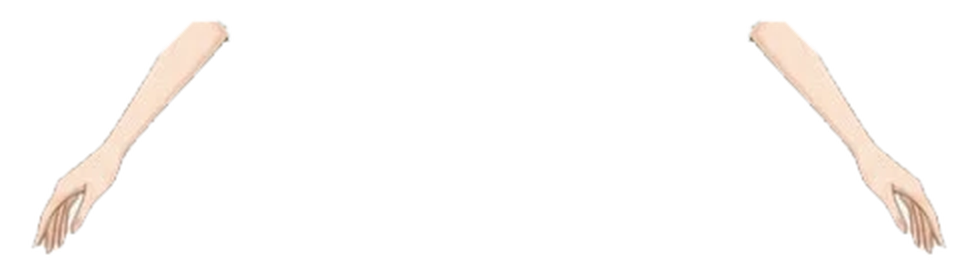
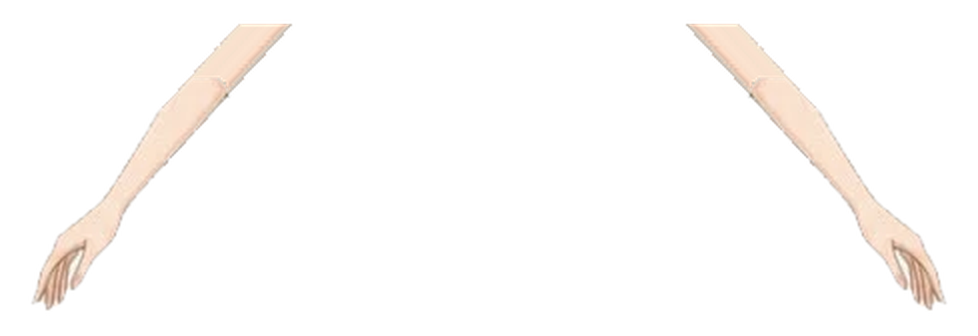
Fix forearm joins at the sleeves and align the waist with the skirt
- Extend the painted forearms up their own axis so they tuck under the
  sleeve hem instead of ending in a cut edge below it
- Keep painted arm fragments out of the dupatta and hanging-rod cut-outs
  (they showed as a streak and stray fingertips over the right arm)
- Raise the lehenga waistband to where the painting has it, widen it to
  the painted width, and refit the flare just below it
- Slim the midriff so the body tucks inside the waistband instead of
  showing past it

Claude-Session: https://claude.ai/code/session_01TYPUusnuhtBJ7Z9aDFcSGW

Changed region(s): [[0.7055, 0.0571, 0.9816, 0.9143], [0.0307, 0.0571, 0.3067, 0.9143]]

diff --git a/src/data/geometry.ts b/src/data/geometry.ts
@@ -445,24 +445,24 @@ export const SLV: Record<string, { L: number; w: [number, number, number] } | nu
 };
 
 export const BOT: Record<string, { profile: [number, number][]; scallop?: boolean }> = {
-  pleated: { profile: [[0, 39.6], [0.028, 40.1], [0.04, 48.6], [0.083, 58.6], [0.126, 68.6], [0.211, 85.6], [0.298, 104.6], [0.385, 120.6], [0.47, 138.6], [0.557, 156.6], [0.642, 173.6], [0.729, 190.6], [0.816, 208.6], [0.885, 221.6]] },
-  aline: { profile: [[0, 39.6], [0.028, 40.1], [0.12, 78], [0.24, 98], [0.5, 138], [0.75, 172], [1, 204]] },
-  circular: { profile: [[0, 39.6], [0.028, 40.1], [0.12, 84], [0.24, 114], [0.45, 162], [0.7, 202], [1, 230]] },
-  panelled: { profile: [[0, 39.6], [0.028, 40.1], [0.12, 80], [0.24, 102], [0.5, 146], [0.75, 186], [1, 216]], scallop: true },
-  flared: { profile: [[0, 39.6], [0.028, 40.1], [0.12, 78], [0.24, 96], [0.48, 126], [0.72, 176], [1, 222]] },
-  straight: { profile: [[0, 39.6], [0.028, 40.1], [0.12, 72], [0.24, 82], [0.45, 88], [0.75, 94], [1, 102]] },
-  tiered: { profile: [[0, 39.6], [0.028, 40.1], [0.12, 80], [0.24, 100], [0.33, 118], [0.35, 132], [0.66, 162], [0.68, 176], [1, 218]] },
-  mermaid: { profile: [[0, 39.6], [0.028, 40.1], [0.12, 74], [0.24, 82], [0.42, 82], [0.6, 80], [0.72, 88], [0.84, 146], [1, 210]] },
-  trouser: { profile: [[0, 39.6], [0.028, 40.1], [0.12, 72], [0.24, 80], [0.5, 78], [1, 74]] },
+  pleated: { profile: [[0, 40], [0.014, 40.6], [0.021, 41.5], [0.028, 43.2], [0.035, 45.8], [0.042, 49], [0.055, 52], [0.069, 54.6], [0.083, 58.1], [0.1, 62.4], [0.134, 70.3], [0.169, 77.3], [0.203, 84.2], [0.302, 104.6], [0.389, 120.6], [0.473, 138.6], [0.56, 156.6], [0.644, 173.6], [0.731, 190.6], [0.817, 208.6], [0.886, 221.6]] },
+  aline: { profile: [[0, 40], [0.028, 43.2], [0.12, 78], [0.24, 98], [0.5, 138], [0.75, 172], [1, 204]] },
+  circular: { profile: [[0, 40], [0.028, 43.2], [0.12, 84], [0.24, 114], [0.45, 162], [0.7, 202], [1, 230]] },
+  panelled: { profile: [[0, 40], [0.028, 43.2], [0.12, 80], [0.24, 102], [0.5, 146], [0.75, 186], [1, 216]], scallop: true },
+  flared: { profile: [[0, 40], [0.028, 43.2], [0.12, 78], [0.24, 96], [0.48, 126], [0.72, 176], [1, 222]] },
+  straight: { profile: [[0, 40], [0.028, 43.2], [0.12, 72], [0.24, 82], [0.45, 88], [0.75, 94], [1, 102]] },
+  tiered: { profile: [[0, 40], [0.028, 43.2], [0.12, 80], [0.24, 100], [0.33, 118], [0.35, 132], [0.66, 162], [0.68, 176], [1, 218]] },
+  mermaid: { profile: [[0, 40], [0.028, 43.2], [0.12, 74], [0.24, 82], [0.42, 82], [0.6, 80], [0.72, 88], [0.84, 146], [1, 210]] },
+  trouser: { profile: [[0, 40], [0.028, 43.2], [0.12, 72], [0.24, 80], [0.5, 78], [1, 74]] },
 };
 
 export const LENV: Record<string, number> = {
-  knee: 212,
-  tea: 272,
-  midi: 328,
-  ankle: 378,
-  floor: 506,
-  trail: 548,
+  knee: 215,
+  tea: 275,
+  midi: 331,
+  ankle: 381,
+  floor: 509,
+  trail: 551,
 };
 
 export const FAB: Record<string, { c: string; op: number }> = {
@@ -685,7 +685,7 @@ export const BODY: number[][] = [
   // Neck top
   [216, 120], [244, 120],
   // Right shoulder, bust, waist, hip (sloped shoulders and slim waist from the reference artwork)
-  [245.6, 138], [259.6, 148], [274.1, 155.4], [283.6, 157.4], [292.6, 160], [298.6, 168], [299.6, 180], [293.6, 196], [285.6, 210], [279.6, 222], [275.6, 236], [271.6, 250], [269.6, 264], [269.6, 282],
+  [245.6, 138], [259.6, 148], [274.1, 155.4], [283.6, 157.4], [292.6, 160], [298.6, 168], [299.6, 180], [293.6, 196], [285.6, 210], [279.6, 222], [275.6, 236], [271.6, 250], [268, 264], [269, 282],
   [273.6, 300], [277.6, 330], [295.6, 368], [299.6, 410], [297.6, 435],
   // Right human-contoured leg
   ...LEG_R,
@@ -696,7 +696,7 @@ export const BODY: number[][] = [
   // Left hip (going up from [161, 450])
   [158, 435], [156, 410], [160, 368], [178, 330],
   // Left waist, bust, shoulder, neck
-  [186.4, 300], [190.4, 282], [190.4, 264], [188.4, 250], [184.4, 236], [180.4, 222], [174.4, 210], [166.4, 196], [160.4, 180], [161.4, 168], [167.4, 160], [176.4, 157.4], [185.9, 155.4], [200.4, 148], [214.4, 138],
+  [186.4, 300], [191, 282], [192, 264], [188.4, 250], [184.4, 236], [180.4, 222], [174.4, 210], [166.4, 196], [160.4, 180], [161.4, 168], [167.4, 160], [176.4, 157.4], [185.9, 155.4], [200.4, 148], [214.4, 138],
 ];
 
 export const ARM_L: number[][] = [
@@ -779,7 +779,7 @@ export const PAINTED = {
   skirt: { href: '/assets/painted/skirt-texture.png', x: -70.7, y: 262.8, w: 698.4, h: 680.9 },
   blouse: { href: '/assets/painted/blouse-texture.png', x: -114.4, y: 131.9, w: 785.7, h: 419.0 },
   skin: { href: '/assets/painted/skin-texture.png', x: 138.8, y: 123.1, w: 192.1, h: 357.9 },
-  armsStretch: { href: '/assets/painted/arms-stretch.png', x: 16.6, y: 280.3, w: 426.9, h: 122.2 },
+  armsStretch: { href: '/assets/painted/arms-stretch.png', x: 16.6, y: 255.8, w: 426.9, h: 146.7 },
   latkan: { href: '/assets/painted/latkan.png', x: 154.5, y: 278.5, w: 48.9, h: 182.5 },
   dupattaOneShoulder: { href: '/assets/painted/dupatta-one-shoulder.png', x: 261.0, y: 145.0, w: 228.7, h: 598.0 },
   rack: { href: '/assets/painted/rack.png', x: 418.1, y: 193.0, w: 126.6, h: 427.8 },

diff --git a/src/components/MannequinStage.tsx b/src/components/MannequinStage.tsx
@@ -714,7 +714,7 @@ export const MannequinStage: React.FC<MannequinStageProps> = ({
   const botGeo = currentGarment === 'shirt' ? 'trouser' : geo('bottom', 'aline');
   const lenId = currentGarment === 'shirt' ? 'floor' : (bySlot('bottomLength') || { id: 'floor' }).id;
   // Lehenga waistband sits where the painted skirt's waistband starts
-  const botTop = currentGarment === 'dress' ? hemY || 330 : currentGarment === 'shirt' ? 300 : currentGarment === 'lehenga' ? 276 : 298;
+  const botTop = currentGarment === 'dress' ? hemY || 330 : currentGarment === 'shirt' ? 300 : currentGarment === 'lehenga' ? 273 : 298;
 
   const botPts = (bg: string, lg: string, topY: number) => {
     const sk = BOT[bg] || BOT.aline;

diff --git a/scripts/painted-assets/build.py b/scripts/painted-assets/build.py
@@ -119,8 +119,28 @@ arm=lz&(dbg>8)&~green
 # drop the pale anti-aliased fringe against the background
 arm&=~((dbg<26)&(m['dbg']>0))
 arm=np.asarray(Image.fromarray((arm*255).astype(np.uint8)).filter(ImageFilter.MaxFilter(3)).filter(ImageFilter.MinFilter(3)).filter(ImageFilter.MinFilter(3)).filter(ImageFilter.GaussianBlur(0.7)))/255.
-y0,y1,x0,x1=290,430,10,160
-left=a[y0:y1,x0:x1]; la=arm[y0:y1,x0:x1]
+# The painting hides the elbow under the sleeve, so the cut-out stops at the hem.
+# Extend the forearm up its own axis so its top always tucks under the sleeve.
+solid=(arm>0.6)&(Y>=318)&(Y<=360)
+ys,xs=np.nonzero(solid)
+pts=np.stack([xs,ys],1).astype(float); mean=pts.mean(0)
+_,_,vt=np.linalg.svd(pts-mean,full_matrices=False)
+d=vt[0]/np.linalg.norm(vt[0])
+if d[1]<0: d=-d                      # point down the arm, toward the hand
+arm_rgb=a.copy(); ext=arm.copy()
+for yy in range(262,345):
+    for xx in range(60,175):
+        if arm[yy,xx]>0.6: continue
+        for k in range(1,60):
+            qx=int(round(xx+d[0]*k)); qy=int(round(yy+d[1]*k))
+            if qy>=H or qx<0: break
+            if solid[qy,qx]:
+                if k>2:              # only fill above the painted forearm, not beside it
+                    arm_rgb[yy,xx]=a[qy,qx]; ext[yy,xx]=arm[qy,qx]
+                break
+arm=ext; a_arm=arm_rgb
+y0,y1,x0,x1=262,430,10,175
+left=a_arm[y0:y1,x0:x1]; la=arm[y0:y1,x0:x1]
 # right arm: mirror around the centre line
 rx0=int(round(2*CX-x1)); rx1=rx0+(x1-x0)
 full=np.zeros((y1-y0, rx1-x0, 3)); fa=np.zeros((y1-y0, rx1-x0))
@@ -148,9 +168,18 @@ al=np.clip((diff*dirv).sum(2)/np.maximum((dirv*dirv).sum(2),1),0,1)
 # dupatta extent: everything on the right that isn't plain skirt, background, hair, rack or arm
 reg=(X>296)&(Y>=138)&(Y<=815)&~((X>=470)&(Y<680))&~hair
 reg&=(((dbg>8)&~(green&(dsk<18)))|gold)
-reg&=~(skin&(Y>280)&(X>360))
+arm_skin=np.asarray(Image.fromarray((skin&(Y>280)&(X>330)&(X<500)&(Y<440)).astype(np.uint8)*255).filter(ImageFilter.MaxFilter(7)))>0
+reg&=~arm_skin
+# keep the right forearm (mirror of the left arm outline, extended up under the sleeve) out of the dupatta
+ra=Image.new('L',(W,H),0)
+ImageDraw.Draw(ra).polygon([(int(2*CX)-x,y) for x,y in [(150,300),(158,330),(120,372),(80,412),(58,432),(10,432),(10,378),(38,356),(68,330),(100,292),(130,286)]],fill=255)
+reg&=~(np.asarray(ra.filter(ImageFilter.MaxFilter(5)))>0)
 reg=np.asarray(Image.fromarray((reg*255).astype(np.uint8)).filter(ImageFilter.MaxFilter(5)).filter(ImageFilter.MinFilter(5)))>0
-pm=reg|dup_poly
+# outer (right) limit of the dupatta, notched where the right forearm comes out of the sleeve
+clamp=Image.new('L',(W,H),0)
+ImageDraw.Draw(clamp).polygon([(290,130),(340,130),(356,150),(398,280),(382,300),(382,352),(444,420),(486,560),(526,700),(552,815),(290,815)],fill=255)
+reg&=np.asarray(clamp)>0
+pm=reg|(dup_poly&(np.asarray(clamp)>0))
 al=np.where(pm,al,0)
 al=np.where(gold&pm,1,al)
 al=np.where(hair,0,al)
@@ -162,6 +191,8 @@ save('dupatta-one-shoulder',col[y0:y1,x0:x1],al[y0:y1,x0:x1],x0,y0)
 # --- rack with hanging dupatta
 rz=np.zeros((H,W),bool); rz[190:680,470:615]=True
 rk=(dbg>7)&rz
+# the right hand's fingertips reach into the rack area; leave them to the arm cut-out
+rk&=~(np.asarray(Image.fromarray((skin&~gold&(X<490)&(Y>370)&(Y<440)).astype(np.uint8)*255).filter(ImageFilter.MaxFilter(5)))>0)
 rk=np.asarray(Image.fromarray((rk*255).astype(np.uint8)).filter(ImageFilter.MaxFilter(7)).filter(ImageFilter.MinFilter(5)).filter(ImageFilter.GaussianBlur(0.8)))/255.
 y0,y1,x0,x1=190,680,470,615
 save('rack',a[y0:y1,x0:x1],rk[y0:y1,x0:x1],x0,y0)
